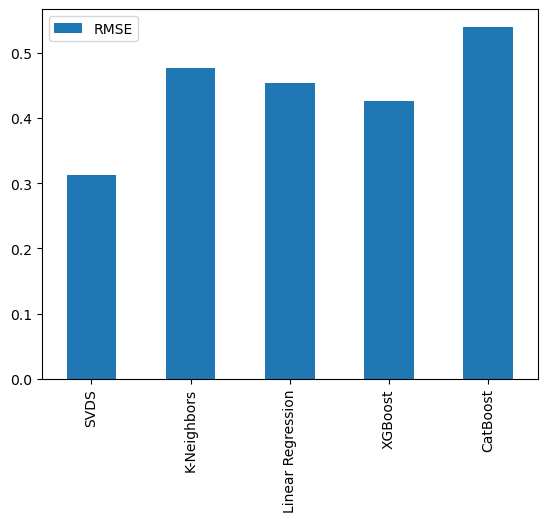
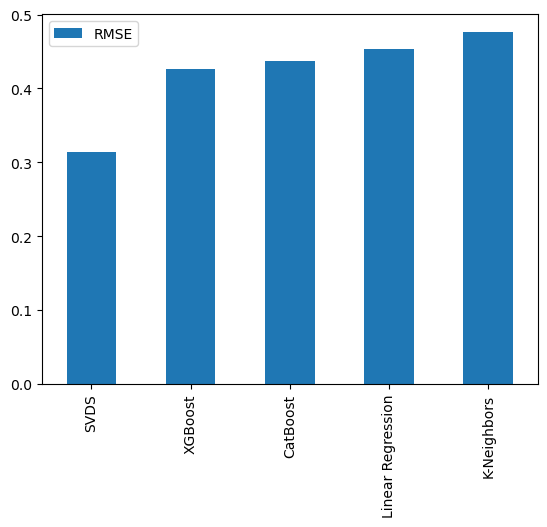
Experiments

diff --git a/EXPERIMENTS.md b/EXPERIMENTS.md
@@ -81,6 +81,13 @@ TODO
 ## CatBoost
 
 ### С гиперпараметрами по умолчанию
+**CatBoostRegressor**:
+/ | Фильмы | Книги | Треки
+--- | --- | --- | ---
+RMSE | 0.41 | 0.046 | 0.44
+Время с. | 146 | 10 | 24
+
+**CatBoostClassifier**:
 / | Фильмы | Книги | Треки
 --- | --- | --- | ---
 RMSE | 0.47 | 0.55 | 0.60
@@ -97,7 +104,7 @@ TODO
 ## Выводы
 
 ### С гиперпараметрами по умолчанию
-Изучив RMSE для разных датасетов с оценками (фильмы, книги и треки), я делаю вывод, что коллаборативная фильтрация на основе матричной факторизации (SVDS) точнее определяет, понравится элемент пользователю или нет.
+Изучив RMSE для разных датасетов с оценками (фильмы, книги и треки), я делаю вывод, что коллаборативная фильтрация на основе матричной факторизации (SVDS) точнее определяет, понравится элемент пользователю или нет. За ним следуют XGBoost и CatBoost.
 
 ![](./assets/moodstream_rmse_base.png)
 
